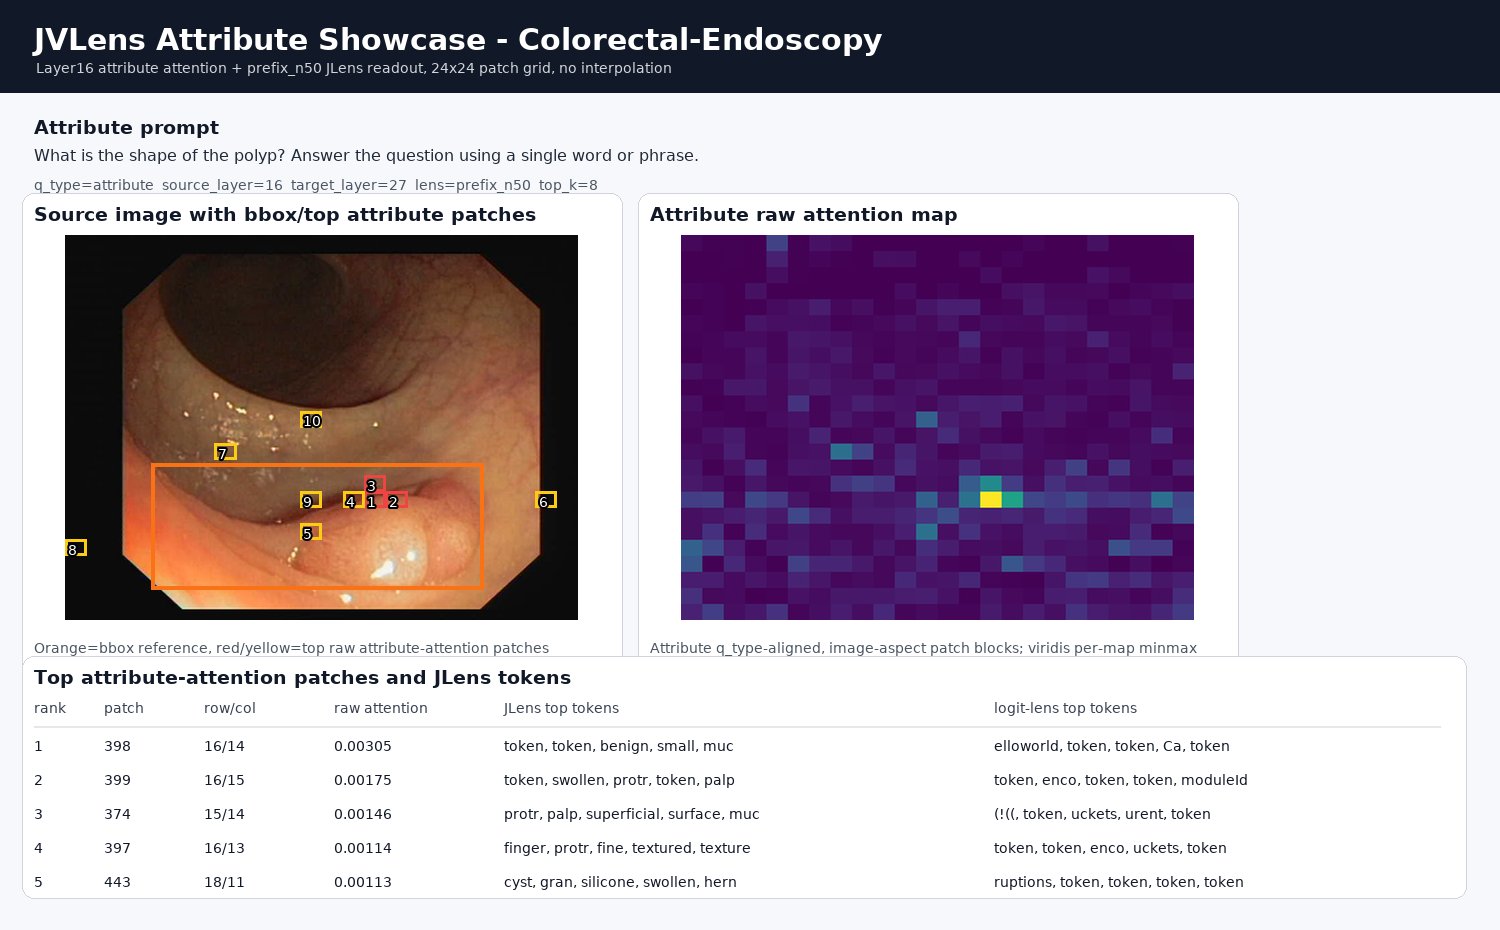
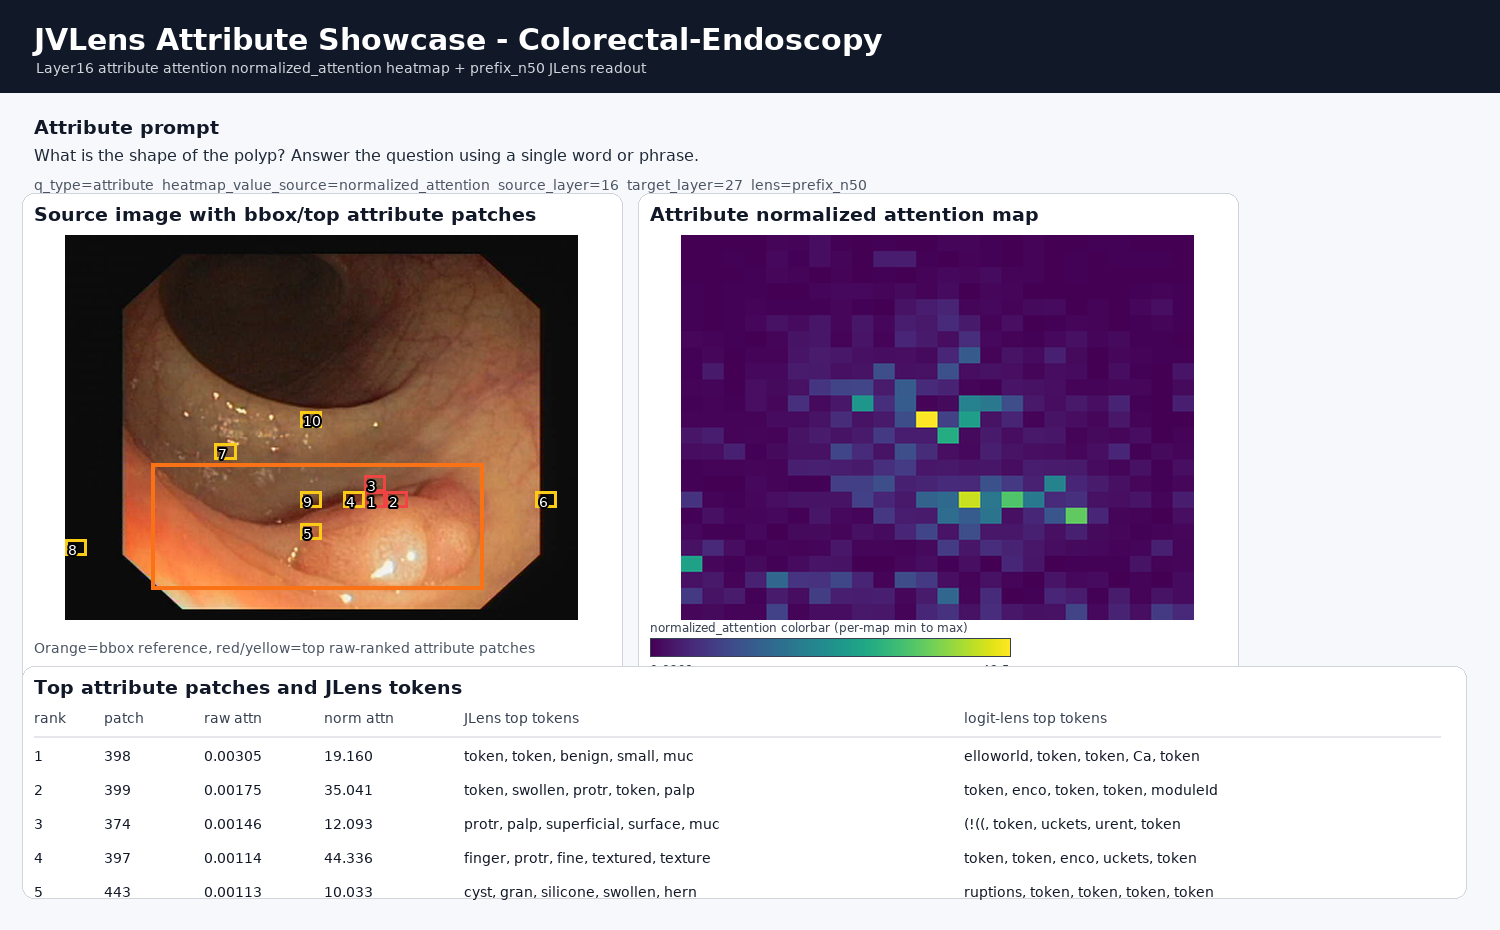
Use normalized attention for showcase heatmaps

diff --git a/tests/test_static_contract.py b/tests/test_static_contract.py
@@ -59,16 +59,22 @@ def main() -> int:
     assert_ok("--out-dir" in fit_source and "required=True" in fit_source, "fit script must require explicit --out-dir")
 
     readme = (ROOT / "README.md").read_text(encoding="utf-8")
+    assert_ok("normalized_attention" in readme or "normalized attention" in readme, "README must describe normalized attention showcase maps")
     showcase_index_path = ROOT / "examples/showcase/showcase_index.json"
     assert_ok(showcase_index_path.is_file(), "missing showcase index")
     showcase_index = json.loads(showcase_index_path.read_text(encoding="utf-8"))
     showcase_samples = showcase_index.get("samples", [])
     assert_ok(len(showcase_samples) == 3, "expected exactly three showcase samples")
     assert_ok(showcase_index.get("attention_prompt_type") == "attribute", "showcase index must use attribute prompts")
+    assert_ok(showcase_index.get("attention_value_source") == "normalized_attention", "showcase index must use normalized_attention")
+    assert_ok(showcase_index.get("heatmap_value_source") == "normalized_attention", "showcase heatmap must use normalized_attention")
+    assert_ok(showcase_index.get("colorbar_value_source") == "normalized_attention", "showcase colorbar must use normalized_attention")
     expected_showcase_types = {"COCO natural image", "Dermoscopy / skin lesion", "Colorectal-Endoscopy / polyp"}
     assert_ok({sample.get("sample_type") for sample in showcase_samples} == expected_showcase_types, "unexpected showcase sample types")
     for sample in showcase_samples:
         assert_ok(sample.get("q_type") == "attribute", f"showcase index sample must be attribute: {sample.get('slug')}")
+        assert_ok(sample.get("attention_value_source") == "normalized_attention", f"showcase sample must use normalized attention: {sample.get('slug')}")
+        assert_ok(sample.get("heatmap_value_source") == "normalized_attention", f"showcase heatmap must use normalized attention: {sample.get('slug')}")
         overview_rel = sample["overview_png"]
         metadata_rel = sample["metadata_json"]
         assert_ok(overview_rel in readme, f"README does not reference {overview_rel}")
@@ -82,11 +88,16 @@ def main() -> int:
         metadata = json.loads(metadata_path.read_text(encoding="utf-8"))
         assert_ok(metadata.get("q_type") == "attribute", f"showcase metadata must be attribute: {metadata_rel}")
         assert_ok("__attribute__layer16" in metadata.get("sample_layer_id", ""), f"showcase sample_layer_id must be attribute: {metadata_rel}")
+        assert_ok(metadata.get("attention_value_source") == "normalized_attention", f"showcase metadata must use normalized attention: {metadata_rel}")
+        assert_ok(metadata.get("heatmap_value_source") == "normalized_attention", f"showcase heatmap must use normalized attention: {metadata_rel}")
+        assert_ok(metadata.get("colorbar_value_source") == "normalized_attention", f"showcase colorbar must use normalized attention: {metadata_rel}")
         assert_ok(metadata.get("source_layer") == 16, f"showcase source layer mismatch: {metadata_rel}")
         assert_ok(metadata.get("target_layer") == 27, f"showcase target layer mismatch: {metadata_rel}")
         assert_ok(metadata.get("lens") == "prefix_n50", f"showcase lens mismatch: {metadata_rel}")
         assert_ok(metadata.get("raw_source_files_copied") is False, f"showcase should not copy raw source files: {metadata_rel}")
         assert_ok(len(metadata.get("top_patches", [])) == 10, f"showcase top patch count mismatch: {metadata_rel}")
+        for patch in metadata.get("top_patches", []):
+            assert_ok("raw_attention" in patch and "normalized_attention" in patch, f"showcase patch must keep raw and normalized values: {metadata_rel}")
 
     forbidden = [
         "/" + "cpfs01",

diff --git a/README.md b/README.md
@@ -9,25 +9,25 @@ This staging package is prepared for review. It contains source code, documentat
 
 ## Showcase Examples
 
-These review images are sanitized static overviews copied from validated layer16 VG/JLens alignment outputs. They use attribute prompts and attribute attention maps, and embed only a small screenshot-style PNG per case, not standalone source images or datasets.
+These review images are sanitized static overviews copied from validated layer16 VG/JLens alignment outputs. They use attribute prompts and normalized_attention attribute maps, and embed only a small screenshot-style PNG per case, not standalone source images or datasets.
 
 ### COCO
 
 ![COCO natural image JVLens showcase](examples/showcase/coco_umbrella_layer16/overview.png)
 
-COCO natural image example using an attribute prompt, layer16, prefix_n50 JLens, a VG-style 24x24 attribute attention map, and independent patch blocks with no interpolation.
+COCO natural image example using an attribute prompt, layer16, prefix_n50 JLens, a VG-style 24x24 normalized attention map, and independent patch blocks with no interpolation.
 
 ### Dermoscopy
 
 ![Dermoscopy JVLens showcase](examples/showcase/dermoscopy_skin_lesion_layer16/overview.png)
 
-Dermoscopy skin-lesion example using an attribute prompt, layer16, prefix_n50 JLens, a VG-style 24x24 attribute attention map, and independent patch blocks with no interpolation.
+Dermoscopy skin-lesion example using an attribute prompt, layer16, prefix_n50 JLens, a VG-style 24x24 normalized attention map, and independent patch blocks with no interpolation.
 
 ### Colorectal-Endoscopy
 
 ![Colorectal-Endoscopy JVLens showcase](examples/showcase/colorectal_endoscopy_polyp_layer16/overview.png)
 
-Colorectal/endoscopy polyp example using an attribute prompt, layer16, prefix_n50 JLens, a VG-style 24x24 attribute attention map, and independent patch blocks with no interpolation.
+Colorectal/endoscopy polyp example using an attribute prompt, layer16, prefix_n50 JLens, a VG-style 24x24 normalized attention map, and independent patch blocks with no interpolation.
 
 ## Status
 